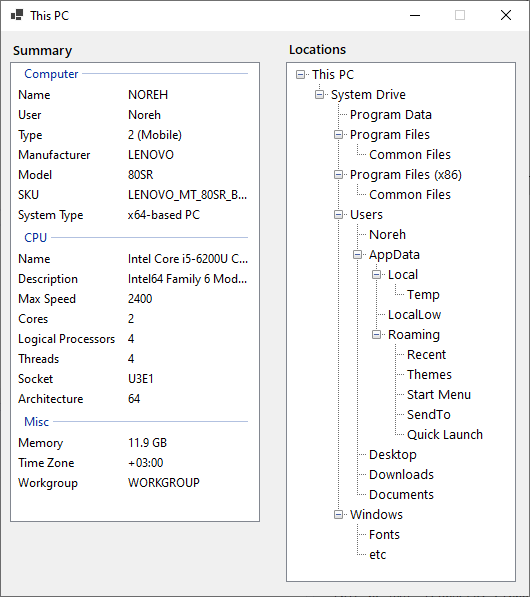
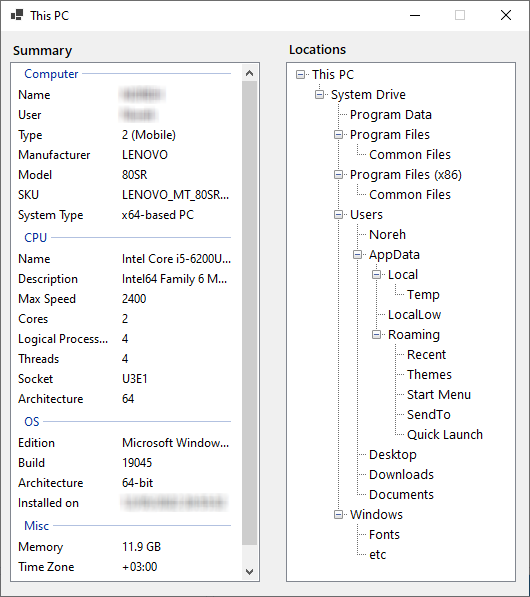
summary: os info

diff --git a/Summary.cs b/Summary.cs
@@ -117,6 +117,33 @@ public static class Summary
         return text;
     }
 
+    private static string ReplaceOSVarPlaceHolders(string text)
+    {
+        Dictionary<string, string> varPropMap = new Dictionary<string, string>
+        {
+            {"%Caption%",        "Caption"},
+            {"%BuildNumber%",    "BuildNumber"},
+            {"%OSArchitecture%", "OSArchitecture"},
+            {"%InstallDate%",    "InstallDate"},
+        };
+        List<string> usedProps = new List<string>();
+        foreach (var item in varPropMap)
+        {
+            if (text.Contains(item.Key))
+            {
+                usedProps.Add(item.Value);
+            }
+        }
+        Dictionary<string, string> info = GetOSInfo(usedProps.ToArray());
+        foreach (KeyValuePair<string, string> pair in info)
+        {
+            string var = varPropMap.FirstOrDefault(x => x.Value == pair.Key).Key;
+            string value = pair.Value;
+            text = text.Replace(var, value);
+        }
+        return text;
+    }
+
     public static Dictionary<string, string> GetSystemInfo(string[]? keys = null)
     {
         keys ??= new string[0];
@@ -197,6 +224,46 @@ public static class Summary
         return info;
     }
 
+    public static Dictionary<string, string> GetOSInfo(string[]? keys = null)
+    {
+        keys ??= new string[0];
+        Dictionary<string, string> info = new Dictionary<string, string>();
+        try
+        {
+            CimSession cimSession = CimSession.Create(null);
+            var query = "SELECT * FROM Win32_OperatingSystem";
+            var queryOptions = new CimOperationOptions { Timeout = TimeSpan.FromSeconds(2) };
+            var results = cimSession.QueryInstances("root/cimv2", "WQL", query, queryOptions);
+            CimInstance? result = null;
+            if (results.Any())
+            {
+                result = results.First();
+            }
+            if (result != null)
+            {
+                foreach (var item in result.CimInstanceProperties)
+                {
+                    string value = item.Value?.ToString() ?? "";
+                    var stringArray = item.Value as string[];
+                    if (stringArray != null)
+                    {
+                        value = string.Join(", ", stringArray);
+                    }
+                    if (keys.Count() == 0 || keys.Contains(item.Name))
+                    {
+                        info.Add(item.Name, value);
+                    }
+                }
+            }
+            cimSession.Dispose();
+        }
+        catch (Exception ex)
+        {
+            //Logger.error(ex.Message);
+        }
+        return info;
+    }
+
     private static List<SummaryNode> buildSummaryList(string[]? lines = null)
     {
         lines ??= new string[0];
@@ -239,6 +306,7 @@ public static class Summary
         {
             text = ReplaceSystemVarPlaceHolders(text);
             text = ReplaceProcessorVarPlaceHolders(text);
+            text = ReplaceOSVarPlaceHolders(text);
             return text;
         });
         var summary = buildSummaryList(lines);

diff --git a/Form1.Designer.cs b/Form1.Designer.cs
@@ -74,7 +74,7 @@
             SummaryListView.Location = new Point(9, 31);
             SummaryListView.Margin = new Padding(0);
             SummaryListView.Name = "SummaryListView";
-            SummaryListView.Size = new Size(250, 460);
+            SummaryListView.Size = new Size(250, 520);
             SummaryListView.TabIndex = 13;
             SummaryListView.UseCompatibleStateImageBehavior = false;
             SummaryListView.View = View.Details;
